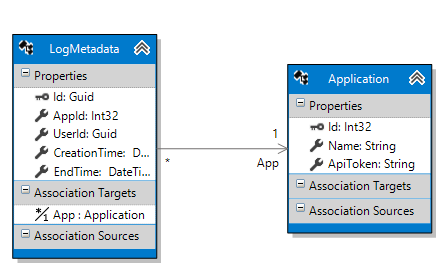
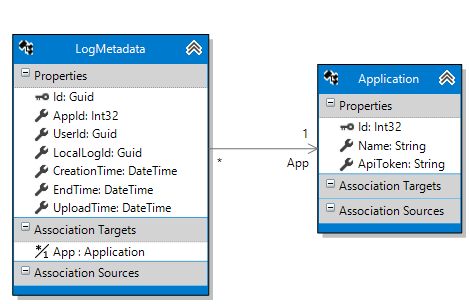
Added UploadTime and LocalLogId to LogMetadata.
UploadTime stores the time (server clock) when the log file was uploaded to the LogCollector service.
LocalLogId is the LogId GUID given by the client on upload. It should usually be identical to the normal Id.
	However, if there is an id conflict with a log from another user, the LogCollector my need to assign a different id to the log.
	In this case, the normal Id is the newly generated one and LocalLogId is the one as passed by the client.

diff --git a/SGL.Analytics.Backend.Model/LogMetadata.cs b/SGL.Analytics.Backend.Model/LogMetadata.cs
@@ -11,17 +11,22 @@ namespace SGL.Analytics.Backend.Model {
 		public int AppId { get; set; }
 		public Application App { get; set; }
 		public Guid UserId { get; set; }
+		public Guid LocalLogId { get; set; }
 
 		public DateTime CreationTime { get; set; }
 		public DateTime EndTime { get; set; }
+		public DateTime UploadTime { get; set; }
 
-		public LogMetadata(Guid id, int appId, Application app, Guid userId, DateTime creationTime, DateTime endTime) {
+		public LogMetadata(Guid id, int appId, Application app, Guid userId,
+			Guid localLogId, DateTime creationTime, DateTime endTime, DateTime uploadTime) {
 			Id = id;
 			AppId = appId;
 			App = app;
 			UserId = userId;
+			LocalLogId = localLogId;
 			CreationTime = creationTime;
 			EndTime = endTime;
+			UploadTime = uploadTime;
 		}
 	}
 }
